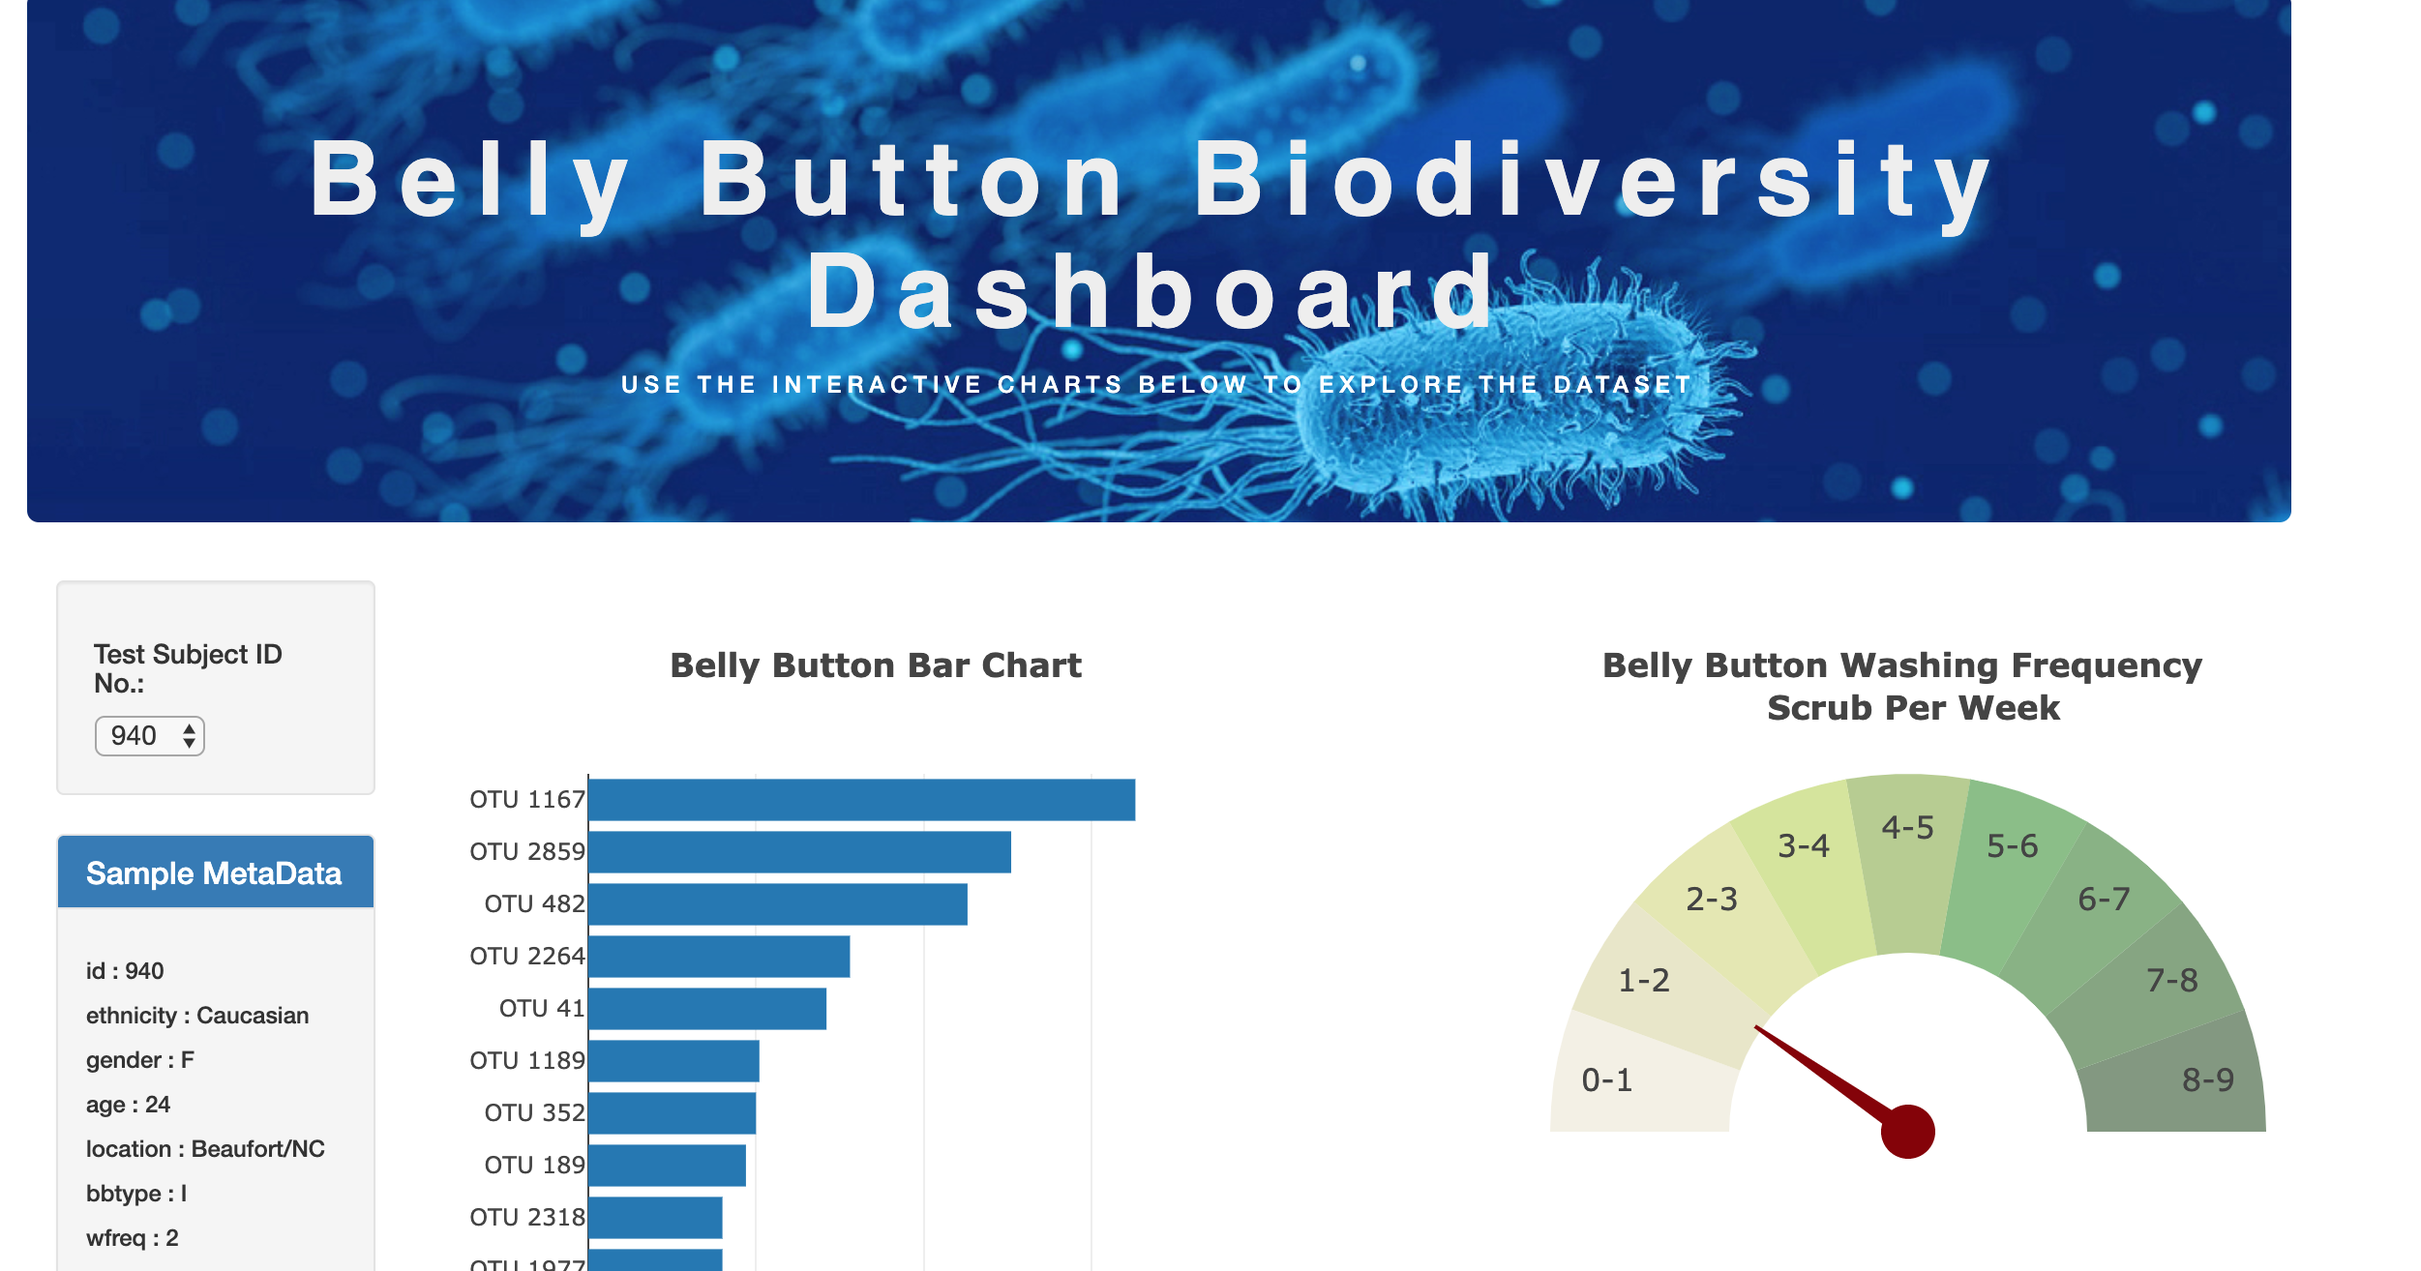
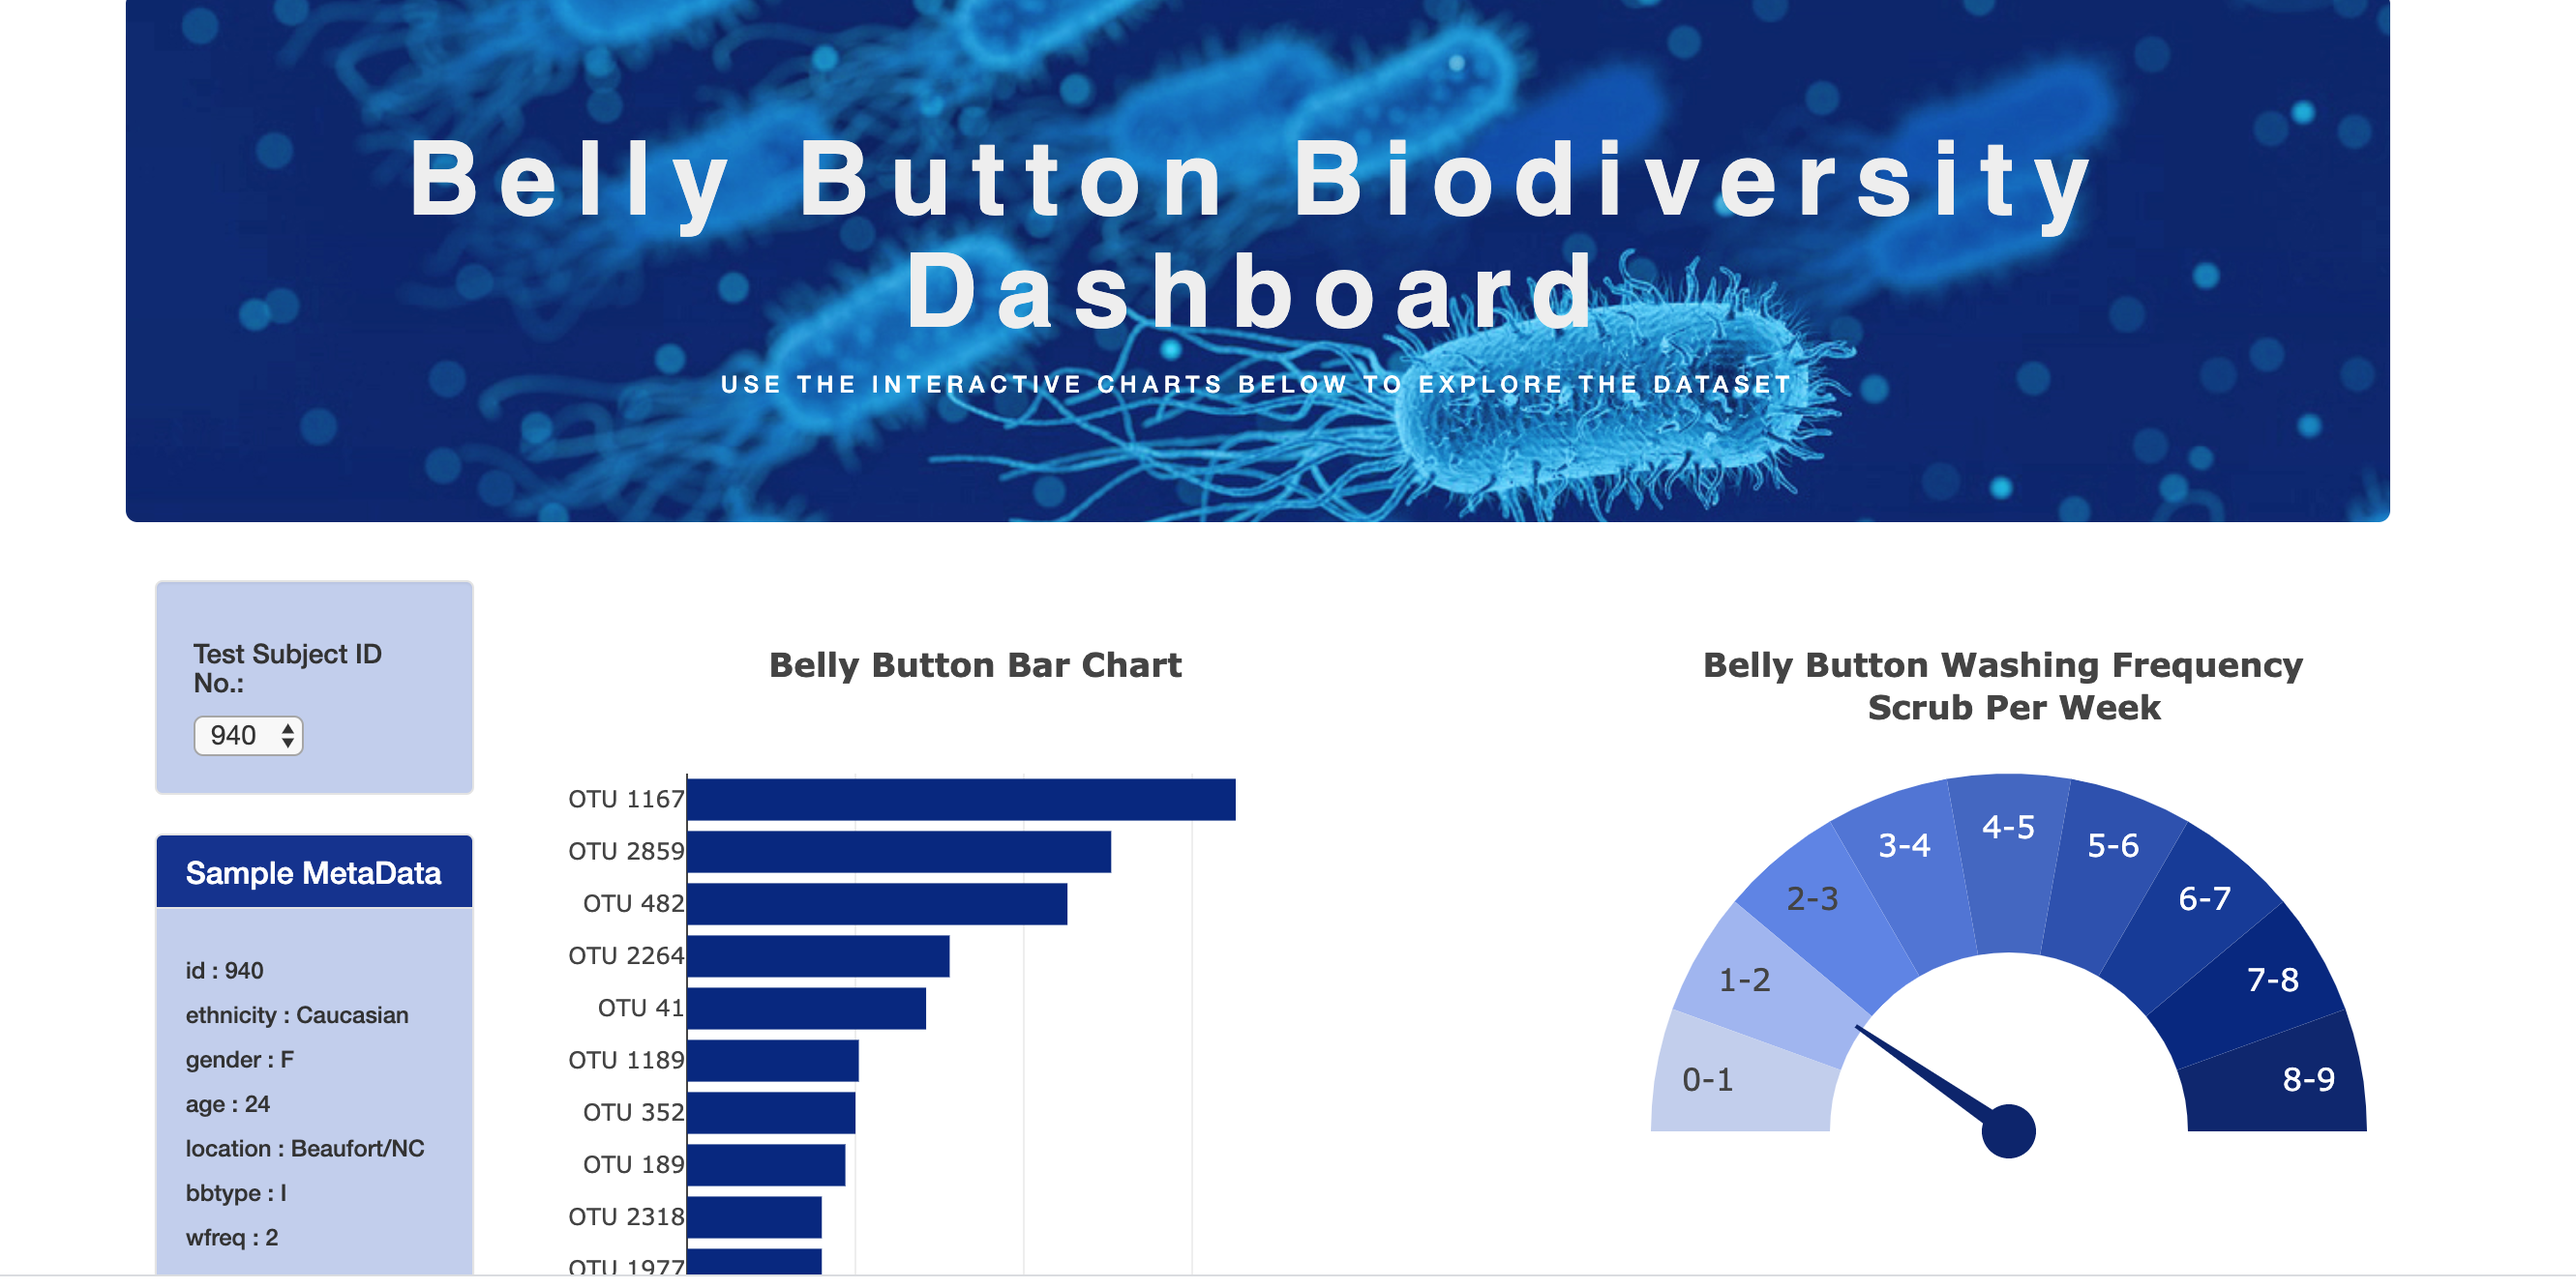
change based on my color palette

diff --git a/static/js/app.js b/static/js/app.js
@@ -1,4 +1,19 @@
 
+// list of f my color palette
+var arrColors = ['rgba(13, 36, 112, 1)','rgba(4, 36, 129, 1)', 'rgba(20, 55, 153, 1)', 
+'rgba(43, 78, 176, 1)', 'rgba(66, 100, 196, 1)',
+'rgba(79, 114, 215, 1)','rgba(93, 129, 231, 1)', 
+'rgba(159, 180, 241, 1))','rgba(193, 205, 237, 1)'];
+
+// helper functions 
+var makeRepeated = (arr, repeats) =>
+[].concat(...Array.from({ length: repeats }, () => arr));
+
+function convertAsString(val) {
+  return "OTU " + val.toString();
+}
+
+// main functions
 function buildMetadata(sample) {
     d3.json("data/samples.json").then(importedData =>{
 
@@ -17,10 +32,6 @@ function buildMetadata(sample) {
 
   })
 
-}
-
-function convertAsString(val) {
-  return "OTU " + val.toString();
 }
 
 function barChart(data){
@@ -42,6 +53,9 @@ function barChart(data){
       x: sample_values.reverse(),
       y: yAxis.reverse(),
       text: otu_labels.reverse(),
+      marker: {
+      color: 'rgba(4, 36, 129, 1)', // custom color based on my color palette
+     },
       type: "bar",
       orientation: "h"
       
@@ -60,16 +74,21 @@ function bubbleChart(data) {
   let x = data.otu_ids;
   let y = data.sample_values;
   let markersize = data.sample_values;
-  let markercolors = data.otu_ids;
+  let markercolors = data.otu_ids; // used my custom list of colors instead, can be replaced with this
   let textvalues = data.otu_labels;
+  let repeatColors = markercolors.length/([...arrColors, 'rgba(224, 227, 234, 1)'].length);
+  
+  //console.log(repeatColors);
+  //console.log(markercolors.length);
+  //console.log([...arrColors, 'rgba(224, 227, 234, 1)'].length);
 
   let trace =[{
     x: x,
     y: y,
     mode: 'markers',
     marker: {
-      size: markersize,
-      color: markercolors,
+       color: makeRepeated([...arrColors, 'rgba(224, 227, 234, 1)'], repeatColors), //list of colors based on my color palette
+       size: markersize,
     },
     text: textvalues
   }];
@@ -109,7 +128,7 @@ function gaugeChart(data) {
 
   let trace = [{ type: 'scatter',
      x: [0], y:[0],
-      marker: {size: 28, color:'850000'},
+      marker: {size: 28, color:'0b226e'},
       showlegend: false,
       name: 'WASH FREQ',
       text: data.wfreq,
@@ -122,12 +141,7 @@ function gaugeChart(data) {
     textfont:{
       size : 16,
       },
-    marker: {colors:['rgba(6, 51, 0, .5)', 'rgba(9, 77, 0, .5)', 
-                           'rgba(12, 102, 0 ,.5)', 'rgba(14, 127, 0, .5)',
-                           'rgba(110, 154, 22, .5)','rgba(170, 202, 42, .5)', 
-                           'rgba(202, 209, 95, .5)','rgba(210, 206, 145, .5)', 
-                           'rgba(232, 226, 202, .5)','rgba(255, 255, 255, 0)'
-                    ]},
+    marker: {colors:[...arrColors,'rgba(255, 255, 255, 0)']},
     labels: ['8-9', '7-8', '6-7', '5-6', '4-5', '3-4', '2-3', '2-1', '0-1',''],
     hoverinfo: 'text',
     hole: .5,
@@ -139,9 +153,9 @@ function gaugeChart(data) {
     shapes:[{
         type: 'path',
         path: path,
-        fillcolor: '850000',
+        fillcolor: '0b226e',
         line: {
-          color: '850000'
+          color: '0b226e'
         }
       }],
 

diff --git a/static/CSS/style.css b/static/CSS/style.css
@@ -9,12 +9,15 @@
     border-color: #e3e3e3;
 }
 .panel-primary>.panel-heading{
-	
+	background-color: #122f90;
 	border-color:#e3e3e3; 
 }
 
+div.well{
+	background-color: rgba(193, 205, 237, 1);
+}
 .panel-body {
-    background-color: #f5f5f5;
+    background-color: rgba(193, 205, 237, 1);
 }
 
 .banner-text h1{

diff --git a/README.md b/README.md
@@ -61,6 +61,14 @@ Deploy your app to a free static page hosting service, such as GitHub Pages. Sub
 
 Hulcr, J. et al.(2012) _A Jungle in There: Bacteria in Belly Buttons are Highly Diverse, but Predictable_. Retrieved from: [http://robdunnlab.com/projects/belly-button-biodiversity/results-and-data/](http://robdunnlab.com/projects/belly-button-biodiversity/results-and-data/)
 
+## my color alette for this project (rgba):
+
+'rgba(13, 36, 112, 1)','rgba(4, 36, 129, 1)', 
+'rgba(20, 55, 153, 1)', 'rgba(43, 78, 176, 1)', 
+'rgba(66, 100, 196, 1)','rgba(79, 114, 215, 1)',
+'rgba(93, 129, 231, 1)', 'rgba(159, 180, 241, 1))',
+'rgba(193, 205, 237, 1)'
+
 ## output screen shots
 ![](screen_shots/screen_shot1.png)
 ![](screen_shots/screen_shot2.png)
